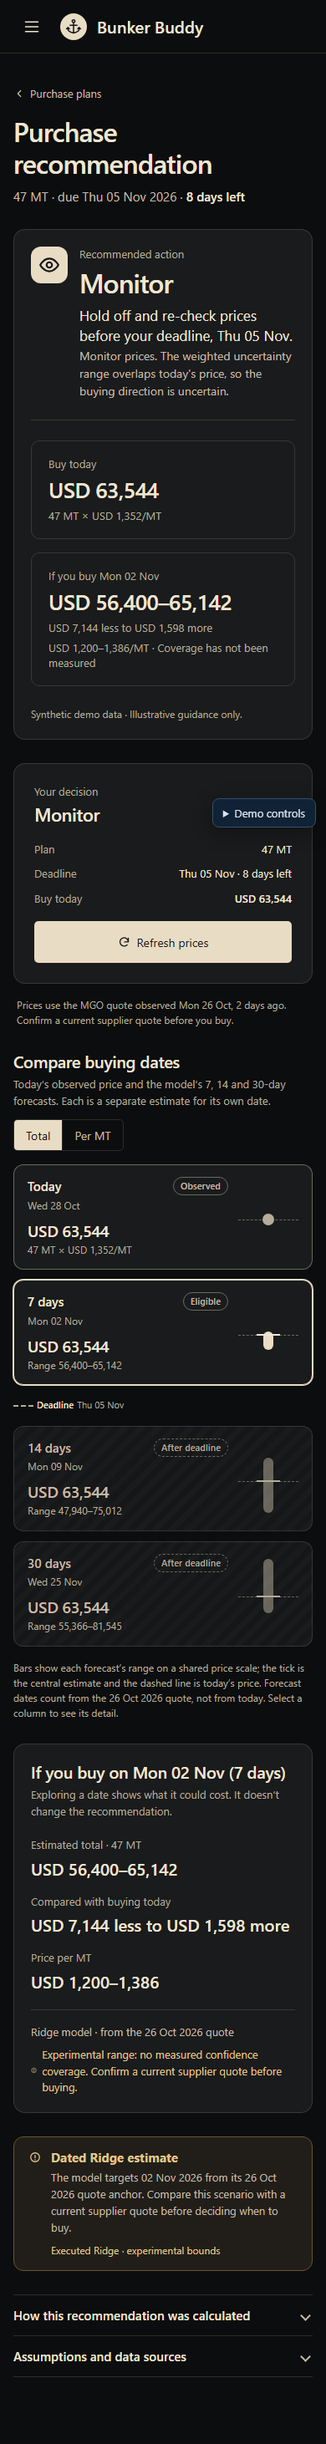
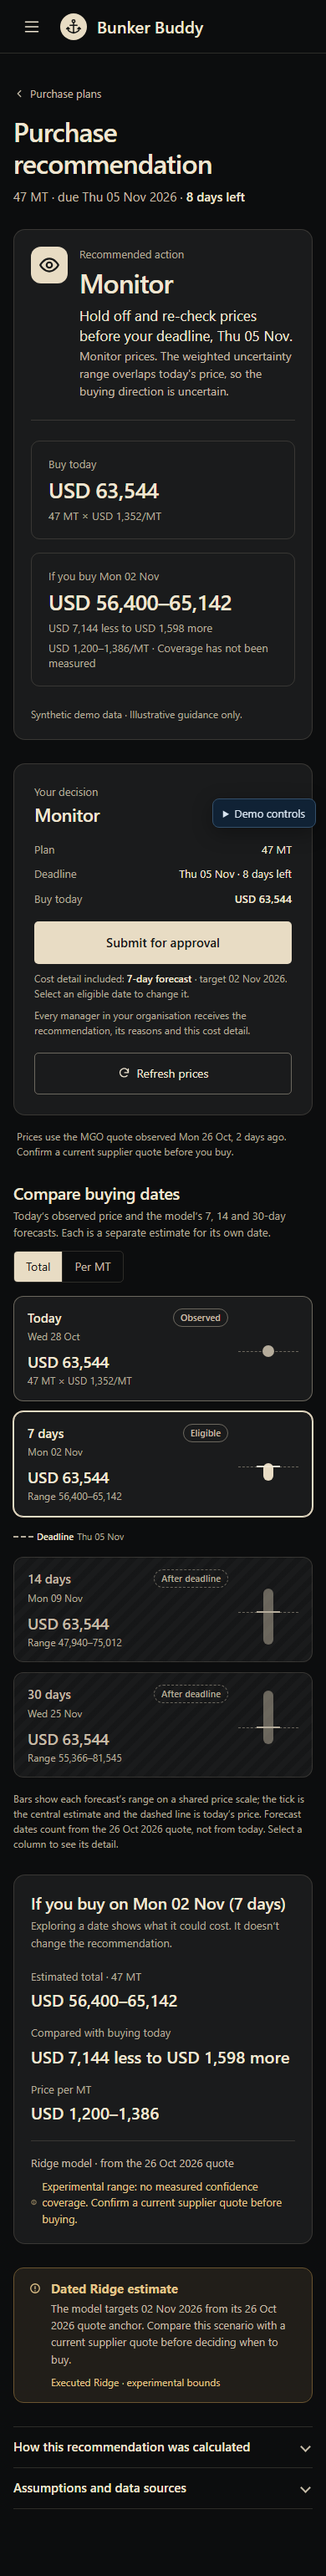
Make Submit for approval the decision rail's primary action
Buyers submit the recommendation from the sticky rail: a primary "Submit for
approval" button, an inline confirm step, and a note naming the cost detail
sent. The submit logic, validity checks and stale-selection errors are unchanged.

- Define .bb-button--secondary (it was used but never styled, so Cancel,
  Refresh and Retry rendered as primary buttons).
- Preview Monitor/Buy now/Wait states run as a buyer with a local submit and
  saved-snapshot read, so the flow can be clicked through; results stay
  labelled synthetic via the forecast's synthetic flag.

diff --git a/frontend/src/features/recommendations/RecommendationApproval.test.tsx b/frontend/src/features/recommendations/RecommendationApproval.test.tsx
@@ -28,11 +28,11 @@ function service() { return { ...createMockPlanService({ initialPlan: draft, del
 it('confirms the selected recommendation, horizon, run and urgency, without trusting client prices', async () => {
   const api = service(), callback = vi.fn(), user = userEvent.setup();
   render(<RecommendationApproval analysis={analysis()} plan={draft} horizon={14} planService={api} onSubmitted={callback} />);
-  await user.click(screen.getByRole('button', { name: 'Request approval for this recommendation' }));
+  await user.click(screen.getByRole('button', { name: 'Submit for approval' }));
   expect(api.submit).not.toHaveBeenCalled();
-  await user.click(screen.getByRole('button', { name: 'Cancel request' }));
-  await user.click(screen.getByRole('button', { name: 'Request approval for this recommendation' }));
-  await user.click(screen.getByRole('button', { name: 'Confirm approval request' }));
+  await user.click(screen.getByRole('button', { name: 'Cancel' }));
+  await user.click(screen.getByRole('button', { name: 'Submit for approval' }));
+  await user.click(screen.getByRole('button', { name: 'Confirm submission' }));
   expect(api.submit).toHaveBeenCalledWith(draft.plan_id, { horizon_days: 14, run_id: forecast(14).run_id,
     recommendation_id: 'plan-rec', approval_fingerprint: 'b'.repeat(64), urgency: 'NORMAL',
     quantity_mt: draft.quantity_mt, purchase_deadline: draft.purchase_deadline, scenario_as_of_date: DEMO_SCENARIO_DATE });
@@ -43,10 +43,10 @@ it('blocks missing evidence and shows stale-selection errors for refresh and ret
   const api = service(), user = userEvent.setup();
   api.submit.mockRejectedValue(new PlanError('The forecast run changed.', {}, 409));
   const view = render(<RecommendationApproval analysis={{ ...analysis(), approval_fingerprint: undefined }} plan={draft} horizon={14} planService={api} onSubmitted={vi.fn()} />);
-  expect(screen.getByRole('button', { name: 'Request approval for this recommendation' })).toBeDisabled();
+  expect(screen.getByRole('button', { name: 'Submit for approval' })).toBeDisabled();
   view.rerender(<RecommendationApproval analysis={analysis()} plan={draft} horizon={14} planService={api} onSubmitted={vi.fn()} />);
-  await user.click(screen.getByRole('button', { name: 'Request approval for this recommendation' }));
-  await user.click(screen.getByRole('button', { name: 'Confirm approval request' }));
+  await user.click(screen.getByRole('button', { name: 'Submit for approval' }));
+  await user.click(screen.getByRole('button', { name: 'Confirm submission' }));
   expect(await screen.findByRole('alert')).toHaveTextContent('The forecast run changed.');
 });
 
@@ -55,9 +55,9 @@ it('does not submit twice or publish a response after the selection component is
   let finish!: (value: { plan: typeof submitted }) => void;
   api.submit.mockReturnValue(new Promise(resolve => { finish = resolve; }));
   const view = render(<RecommendationApproval analysis={analysis()} plan={draft} horizon={14} planService={api} onSubmitted={callback} />);
-  await user.click(screen.getByRole('button', { name: 'Request approval for this recommendation' }));
-  await user.click(screen.getByRole('button', { name: 'Confirm approval request' }));
-  expect(screen.getByRole('button', { name: 'Submitting request…' })).toBeDisabled();
+  await user.click(screen.getByRole('button', { name: 'Submit for approval' }));
+  await user.click(screen.getByRole('button', { name: 'Confirm submission' }));
+  expect(screen.getByRole('button', { name: 'Submitting…' })).toBeDisabled();
   view.unmount(); await act(async () => finish({ plan: submitted }));
   expect(api.submit).toHaveBeenCalledTimes(1); expect(callback).not.toHaveBeenCalled();
 });
@@ -68,14 +68,14 @@ it('keeps one plan recommendation while selecting the forecast cost detail for a
   render(<ForecastProvider service={{ read: async h => forecast(h) }} scenarioDate={DEMO_SCENARIO_DATE}>
     <RecommendationsPage canSubmit planId={draft.plan_id} planService={api} service={recommendations} scenarioDate={DEMO_SCENARIO_DATE} />
   </ForecastProvider>);
-  await screen.findByRole('button', { name: 'Request approval for this recommendation' });
+  await screen.findByRole('button', { name: 'Submit for approval' });
   expect(screen.getByText('One recommendation for this plan.')).toBeVisible();
   fireEvent.click(screen.getByRole('button', { name: /^14 days$/ }));
   await screen.findByText(/Cost detail included:/);
   await waitFor(() => expect(screen.getByText('14-day forecast')).toBeVisible());
   expect(screen.getByText('One recommendation for this plan.')).toBeVisible();
-  await user.click(screen.getByRole('button', { name: 'Request approval for this recommendation' }));
-  await user.click(screen.getByRole('button', { name: 'Confirm approval request' }));
+  await user.click(screen.getByRole('button', { name: 'Submit for approval' }));
+  await user.click(screen.getByRole('button', { name: 'Confirm submission' }));
   await waitFor(() => expect(api.submit).toHaveBeenCalledWith(draft.plan_id, expect.objectContaining({ horizon_days: 14, recommendation_id: 'plan-rec' })));
   expect(await screen.findByRole('heading', { name: 'Submitted recommendation' })).toBeVisible();
   expect(api.readSubmission).toHaveBeenCalledWith(draft.plan_id);
@@ -85,11 +85,11 @@ it('never offers approval requests to read-only viewers and shows the persisted 
   const api = service();
   const view = render(<RecommendationsPage planId={draft.plan_id} planService={api} scenarioDate={DEMO_SCENARIO_DATE} />);
   await screen.findByText('No recommendation available');
-  expect(screen.queryByRole('button', { name: 'Request approval for this recommendation' })).not.toBeInTheDocument();
+  expect(screen.queryByRole('button', { name: 'Submit for approval' })).not.toBeInTheDocument();
   view.rerender(<SubmittedRecommendationView plan={submitted} planService={api} />);
   expect(await screen.findByRole('heading', { name: 'Plan recommendation · WAIT' })).toBeVisible();
   expect(screen.getByText('One recommendation for this plan.')).toBeVisible();
-  expect(screen.queryByRole('button', { name: 'Request approval for this recommendation' })).not.toBeInTheDocument();
+  expect(screen.queryByRole('button', { name: 'Submit for approval' })).not.toBeInTheDocument();
 });
 
 
@@ -98,8 +98,8 @@ it('allows the deadline policy buy-now request using the reference price when no
   const data: PlanAnalysis = { ...analysis(7), cost_impact: { status: 'unavailable', reason: 'unsupported_horizon', message: 'No forecast fits.' },
     recommendation: { status: 'ready', value: { recommendation_id: 'buy-now-plan', action: 'BUY_NOW', explanation: 'Buying now is the only priced option.' } } };
   render(<RecommendationApproval analysis={data} plan={draft} horizon={7} planService={api} onSubmitted={vi.fn()} />);
-  expect(screen.getByText(/This request uses the observed reference price/)).toBeVisible();
-  await user.click(screen.getByRole('button', { name: 'Request approval for this recommendation' }));
-  await user.click(screen.getByRole('button', { name: 'Confirm approval request' }));
+  expect(screen.getByText(/Uses the observed reference price/)).toBeVisible();
+  await user.click(screen.getByRole('button', { name: 'Submit for approval' }));
+  await user.click(screen.getByRole('button', { name: 'Confirm submission' }));
   expect(api.submit).toHaveBeenCalledWith(draft.plan_id, expect.objectContaining({ recommendation_id: 'buy-now-plan' }));
 });

diff --git a/frontend/src/preview/PreviewApp.tsx b/frontend/src/preview/PreviewApp.tsx
@@ -9,7 +9,8 @@ import './preview.css';
 import { buildMockForecast } from '../features/forecast/mockService';
 import ForecastWidget from '../features/forecast/ForecastWidget';
 import type { ReadyForecast } from '../features/forecast/apiService';
-import { createScenarioForecastService, createScenarioRecommendationService, scenarioPlan, SCENARIO_DATE, type RecommendationScenario } from './recommendationScenarios';
+import { createScenarioForecastService, createScenarioRecommendationService, PREVIEW_BUYER, scenarioPlan, SCENARIO_DATE, withPreviewApproval, type RecommendationScenario } from './recommendationScenarios';
+import type { PurchasePlanService } from '../features/purchase-plan/types';
 function PreviewMarketDashboard() { return <main><ForecastWidget /></main>; }
 
 const examples = {
@@ -33,6 +34,7 @@ export function PreviewApp() {
   const [slow, setSlow] = useState(false);
   const [scenarioDate, setScenarioDate] = useState(SCENARIO_DATE);
   const scenario = recommendationScenarios[example];
+  const withScenarioApproval = (plans: PurchasePlanService) => scenario ? withPreviewApproval(plans, scenario) : plans;
   const activeDate = useRef(scenarioDate);
   activeDate.current = scenarioDate;
   const auth = useMemo(() => createMockAuthService({
@@ -48,13 +50,13 @@ export function PreviewApp() {
   }
 
   return <>
-    <App key={`${example}-${revision}-${slow}`} auth={auth} scenarioDate={scenarioDate} mock MarketDashboard={PreviewMarketDashboard} createForecastService={() => scenario ? createScenarioForecastService(scenario) : ({ read: async horizon => buildMockForecast(horizon) as ReadyForecast })} createRecommendationService={() => scenario ? createScenarioRecommendationService(scenario, slow ? 3500 : 600) : createMockRecommendationService({ delayMs: example === 'rec-loading' ? 8000 : slow ? 3500 : 700, failOnce: example === 'rec-error', example: example === 'rec-unavailable' ? 'unavailable' : example === 'rec-missing' ? 'missing-forecast' : example === 'rec-unsupported' ? 'unsupported' : 'ready' })} createPlanService={() => createMockPlanService({
+    <App key={`${example}-${revision}-${slow}`} auth={auth} scenarioDate={scenarioDate} mock MarketDashboard={PreviewMarketDashboard} createForecastService={() => scenario ? createScenarioForecastService(scenario) : ({ read: async horizon => buildMockForecast(horizon) as ReadyForecast })} createRecommendationService={() => scenario ? createScenarioRecommendationService(scenario, slow ? 3500 : 600) : createMockRecommendationService({ delayMs: example === 'rec-loading' ? 8000 : slow ? 3500 : 700, failOnce: example === 'rec-error', example: example === 'rec-unavailable' ? 'unavailable' : example === 'rec-missing' ? 'missing-forecast' : example === 'rec-unsupported' ? 'unsupported' : 'ready' })} planAccess={scenario ? PREVIEW_BUYER : undefined} createPlanService={() => withScenarioApproval(createMockPlanService({
       initialPlans: example === 'multiple' ? [DEMO_PLAN, { ...DEMO_PLAN, plan_id: 'second-demo-plan', quantity_mt: 250 }] : undefined,
       initialPlan: scenario ? scenarioPlan(scenario) : example === 'rec-empty' ? null : example.startsWith('rec-') ? RECOMMENDATION_DEMO_PLAN : ['saved', 'edit-error', 'delete-error'].includes(example) ? DEMO_PLAN : null,
       getScenarioDate: () => activeDate.current,
       delayMs: example === 'loading' ? 8000 : slow ? 3500 : 700,
       failOnce: { read: example === 'load-error', create: example === 'save-error', update: example === 'edit-error', delete: example === 'delete-error' },
-    })} />
+    }))} />
     <details className="preview-tools">
       <summary>Demo controls</summary>
       <div className="preview-tools-body">

diff --git a/frontend/src/preview/recommendationScenarios.ts b/frontend/src/preview/recommendationScenarios.ts
@@ -2,7 +2,8 @@ import type { ForecastService, Horizon, ReadyForecast } from '../features/foreca
 import { buildMockForecast } from '../features/forecast/mockService';
 import type { RecommendationService } from '../features/recommendations/service';
 import { RECOMMENDATION_DEMO_PLAN } from '../features/recommendations/mockService';
-import type { CurrentRecommendation, PlanAnalysis, PlanResultContext, PurchasePlan } from '../features/purchase-plan/types';
+import type { CurrentRecommendation, PlanAnalysis, PlanResultContext, PurchasePlan, PurchasePlanService, SubmittedRecommendation } from '../features/purchase-plan/types';
+import type { OrganisationPermissions } from '../features/organisation/apiService';
 
 /**
  * Fixed preview data for the Monitor, Buy now and Wait mockups (docs/ui-revamp/assets/inspo/recommendations-page).
@@ -94,8 +95,11 @@ export function createScenarioRecommendationService(scenario: RecommendationScen
     const [low, central, high] = prices[horizon];
     const target = addDays(QUOTE_DATE, horizon);
     const q = context.quantity_mt, reference = PRICE * q;
+    // Shaped like model output so the buyer approval flow can be clicked through; the page still labels
+    // these results synthetic because every preview forecast carries `synthetic: true`.
     return {
-      source: 'mock', provenance: 'fixture', context: { ...context, urgency: context.urgency ?? 'NORMAL' },
+      source: 'api', provenance: 'model', approval_fingerprint: (scenario === 'monitor' ? 'a' : scenario === 'buy' ? 'b' : 'c').repeat(56) + String(horizon).padStart(8, '0'),
+      context: { ...context, urgency: context.urgency ?? 'NORMAL' },
       reference: { status: 'ready', value: { price: PRICE, observation_date: QUOTE_DATE, basis } },
       forecast: { status: 'ready', value: { prices: { lower: low, upper: high }, central_estimate: central, target_date: target, basis,
         run_id: `preview-${scenario}`, model_version: `ridge-${horizon}d-sha256-preview00000000`,
@@ -108,4 +112,28 @@ export function createScenarioRecommendationService(scenario: RecommendationScen
     };
   }
   return { read, readImpact: read };
+}
+
+/** Preview buyer: can write plans, so the decision rail offers "Submit for approval". */
+export const PREVIEW_BUYER: OrganisationPermissions = { organisation_id: 'preview-organisation', role: 'org:buyer', can_read_plans: true, can_write_plans: true, plan_scope: 'own' };
+
+/** Adds a local submit and saved-snapshot read to the preview plan service; nothing leaves the browser. */
+export function withPreviewApproval(plans: PurchasePlanService, scenario: RecommendationScenario): PurchasePlanService {
+  const recommendations = createScenarioRecommendationService(scenario, 0);
+  let submitted: { plan: PurchasePlan; submission: SubmittedRecommendation } | undefined;
+  return {
+    ...plans,
+    async read(planId) { return submitted && submitted.plan.plan_id === planId ? { plan: submitted.plan } : plans.read(planId); },
+    async submit(planId, selection) {
+      const { plan } = await plans.read(planId);
+      if (!plan) throw new Error('No saved purchase plan.');
+      const analysis = await recommendations.read({ ...plan, urgency: selection.urgency }, selection.horizon_days);
+      const saved: PurchasePlan = { ...plan, status: 'submitted', submitted_at: new Date().toISOString() };
+      submitted = { plan: saved, submission: { horizon_days: selection.horizon_days, analysis } };
+      return { plan: saved };
+    },
+    async readSubmission(planId) {
+      return { submission: submitted && submitted.plan.plan_id === planId ? submitted.submission : null, decision: null };
+    },
+  };
 }

diff --git a/frontend/src/features/recommendations/RecommendationApproval.tsx b/frontend/src/features/recommendations/RecommendationApproval.tsx
@@ -37,19 +37,17 @@ export function RecommendationApproval({ analysis, plan, horizon, planService, o
     } catch (failure) { if (active.current) setError(requestError(failure).detail); }
     finally { pending.current = false; if (active.current) setBusy(false); }
   }
-  return <section className="rec-approval" aria-label="Request recommendation approval">
-    <h3>Request approval for this recommendation</h3>
-    <p>Plan recommendation: <strong>{guidance?.action.replaceAll('_', ' ')}</strong>. This recommendation considers the available forecasts within your purchase deadline.</p>
-    {referenceOnly ? <p>This request uses the observed reference price for buying now. No supported forecast cost is available within the deadline.</p>
-      : <p>Cost detail included: <strong>{horizon}-day forecast</strong>{forecast ? ` · target ${formatDate(forecast.target_date)}` : ''}.</p>}
-    <p>Every manager in your organisation will receive the plan recommendation, its reasons and this selected cost detail.</p>
-    {!valid && <p>A saved draft and a current priced recommendation are required.</p>}
+  return <section className="rec-approval" aria-label="Submit for approval">
+    {confirm ? <div className="rec-approval-confirm" role="group" aria-label="Confirm submission">
+      <p><strong>Submit {guidance ? `“${guidance.action.replaceAll('_', ' ').toLowerCase()}”` : 'this recommendation'} for approval?</strong> The plan and this recommendation are locked while managers review it.</p>
+      <div className="rec-approval-actions"><button className="bb-button bb-button--secondary" disabled={busy} onClick={() => setConfirm(false)}>Cancel</button>
+      <button className="bb-button" disabled={busy || !valid} onClick={submit}>{busy ? 'Submitting…' : 'Confirm submission'}</button></div>
+    </div> : <button className="bb-button rec-submit" disabled={!valid} onClick={() => setConfirm(true)}>Submit for approval</button>}
     {error && <p role="alert">{error} Your selection has not been confirmed. Refresh the page if the plan or forecast changed.</p>}
-    {confirm ? <div>
-      <p><strong>Confirm this choice?</strong> The plan and this recommendation will be locked for review.</p>
-      <div className="rec-approval-actions"><button className="bb-button bb-button--secondary" disabled={busy} onClick={() => setConfirm(false)}>Cancel request</button>
-      <button className="bb-button" disabled={busy || !valid} onClick={submit}>{busy ? 'Submitting request…' : 'Confirm approval request'}</button></div>
-    </div> : <button className="bb-button" disabled={!valid} onClick={() => setConfirm(true)}>Request approval for this recommendation</button>}
+    {!valid && <p className="rec-approval-note">A saved draft and a current priced recommendation are required.</p>}
+    {referenceOnly ? <p className="rec-approval-note">Uses the observed reference price for buying now. No supported forecast cost is available within the deadline.</p>
+      : <p className="rec-approval-note">Cost detail included: <strong>{horizon}-day forecast</strong>{forecast ? ` · target ${formatDate(forecast.target_date)}` : ''}. Select an eligible date to change it.</p>}
+    <p className="rec-approval-note">Every manager in your organisation receives the recommendation, its reasons and this cost detail.</p>
   </section>;
 }
 

diff --git a/frontend/src/features/recommendations/recommendations.css b/frontend/src/features/recommendations/recommendations.css
@@ -48,10 +48,16 @@
 .rec-rail-facts > div:last-child dd { font-weight: 600; }
 .rec-refresh { display: inline-flex; align-items: center; justify-content: center; gap: var(--bb-space-2); width: 100%; }
 .recommendations .rec-rail-note { padding: 0 4px; font-size: 12px; line-height: 18px; color: var(--bb-text-secondary); }
-.rec-rail .rec-approval { margin: 0; padding-top: 18px; border-top: 1px solid var(--bb-border-subtle); }
-.rec-rail .rec-approval h3 { font-size: 14px; line-height: 20px; font-weight: 600; }
-.rec-rail .rec-approval p { font-size: 13px; line-height: 19px; margin: var(--bb-space-2) 0; }
-.rec-rail .rec-approval > .bb-button, .rec-rail .rec-approval-actions .bb-button { width: 100%; min-height: 48px; }
+/* Submit for approval is the rail's primary action; Refresh prices sits below it as a secondary button. */
+.rec-rail .rec-approval { margin: 0; padding: 0; border: 0; display: flex; flex-direction: column; gap: var(--bb-space-2); }
+.recommendations .rec-rail .rec-approval p { margin: 0; font-size: 12px; line-height: 18px; color: var(--bb-text-secondary); }
+.recommendations .rec-rail .rec-approval-confirm p { font-size: 13px; color: var(--bb-text-supporting); }
+.rec-rail .rec-approval-confirm strong, .rec-rail .rec-approval-note strong { color: var(--bb-text); font-weight: 600; }
+.rec-rail .rec-submit { width: 100%; min-height: 48px; font-size: 15px; font-weight: 600; }
+.rec-rail .rec-approval-actions { display: grid; grid-template-columns: 1fr 1fr; gap: var(--bb-space-2); margin: var(--bb-space-3) 0 var(--bb-space-1); }
+.rec-rail .rec-approval-actions { grid-template-columns: 2fr 3fr; }
+.rec-rail .rec-approval-actions .bb-button { width: 100%; min-height: 44px; padding: 10px; font-size: 14px; }
+.recommendations .rec-rail .rec-approval [role=alert] { color: var(--bb-error-text); }
 
 .rec-section-head { display: flex; flex-wrap: wrap; align-items: flex-end; justify-content: space-between; gap: var(--bb-space-3); }
 .recommendations .rec-section-head h2 { font-size: 20px; line-height: 26px; font-weight: 600; letter-spacing: -.015em; }

diff --git a/frontend/src/app/app.css b/frontend/src/app/app.css
@@ -10,6 +10,10 @@
 #app-content { width: 100%; max-width: var(--bb-page-max); margin-inline: auto; }
 .bb-button { border: 1px solid transparent; border-radius: var(--bb-radius-control); min-height: 50px; display: inline-flex; justify-content: center; align-items: center; gap: var(--bb-space-2); padding: 13px var(--bb-space-5); background: var(--bb-action); color: var(--bb-text-on-action); font-weight: 600; text-decoration: none; cursor: pointer; }
 .bb-button:hover:not(:disabled) { background: var(--bb-action-hover); }
+/* Secondary actions (cancel, refresh, retry) sit beside a primary button, so they are outlined rather than filled. */
+.bb-button--secondary { background: transparent; color: var(--bb-text); border-color: var(--bb-border-control); font-weight: 500; }
+.bb-button--secondary:hover:not(:disabled) { background: var(--bb-surface-hover); border-color: var(--bb-action); }
+.bb-button:disabled { cursor: not-allowed; opacity: .55; }
 .bb-skip { position: fixed; left: var(--bb-space-4); top: -80px; z-index: 10; padding: var(--bb-space-3); background: var(--bb-action); color: var(--bb-text-on-action); border-radius: var(--bb-radius-control); }
 .bb-skip:focus { top: var(--bb-space-2); }
 .bb-home { min-height: calc(100dvh - 64px); padding: 60px var(--bb-page-pad); display: flex; flex-direction: column; align-items: flex-start; justify-content: center; padding-bottom: 15vh; }

diff --git a/frontend/src/features/recommendations/RecommendationsPage.tsx b/frontend/src/features/recommendations/RecommendationsPage.tsx
@@ -131,7 +131,7 @@ function PlanDecision({ plan, service, reload, horizonDays, runId, requireEviden
   const waitTarget = guidance?.action === 'WAIT' && evidence?.supported_target_date && evidence.alternative_cost_usd != null ? evidence.supported_target_date : undefined;
   const reference = (g.analysis ?? i.analysis)?.reference;
   const quote = published?.anchor_quote_date ?? (reference?.status === 'ready' ? reference.value.observation_date : undefined);
-  const demo = [g.analysis, i.analysis].some(a => a && (a.source === 'mock' || a.provenance === 'fixture'));
+  const demo = !!published?.synthetic || [g.analysis, i.analysis].some(a => a && (a.source === 'mock' || a.provenance === 'fixture'));
 
   const impactTile = showImpact ? <div className="rec-tile" aria-busy={i.loading}>
     {i.loading ? <div role="status"><span className="rec-tile-label">Estimated cost</span><div className="rec-skeleton" /><p>Loading cost impact for {amount(plan.quantity_mt)} MT…</p></div>
